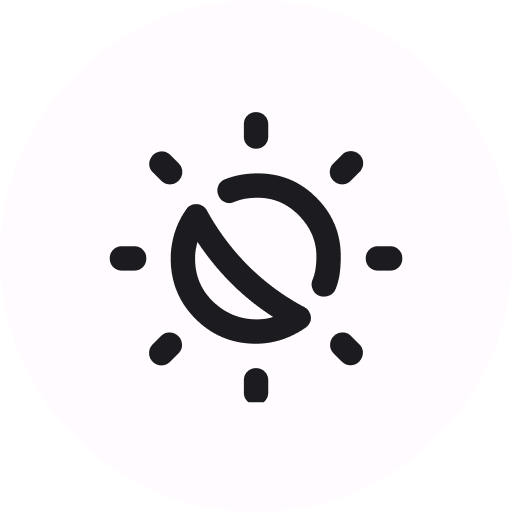
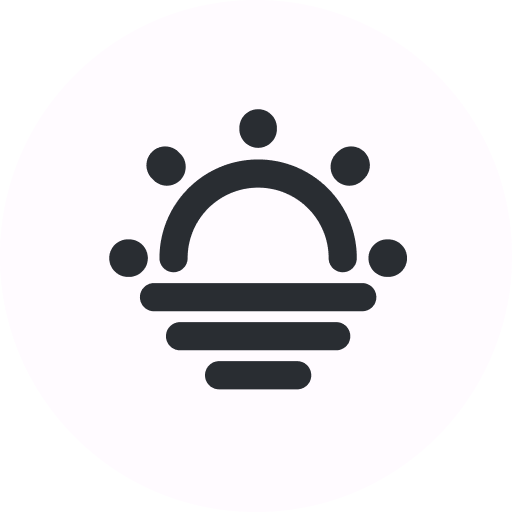
Merubah styling pada fitur sunrise dan sunset serta menambahkan jarak waktu sekarang ke objek tersebut

Changed region(s): [[0.2188, 0.1875, 0.8125, 0.8125]]

diff --git a/script/script.js b/script/script.js
@@ -487,12 +487,16 @@ function printData(response) {
             }`
         );
 
+        const timeToSunrise =
+            new Date().getHours() -
+            new Date(Number(response.sys.sunrise + "000")).getHours();
+        const timeToSunset =
+            new Date().getHours() -
+            new Date(Number(response.sys.sunset + "000")).getHours();
+
         createPGap.textContent =
-            i === 1
-                ? new Date().getHours() -
-                  new Date(Number(response.sys.sunrise + "000")).getHours()
-                : new Date().getHours() -
-                  new Date(Number(response.sys.sunrise + "000")).getHours();
+            (i === 1 ? timeToSunrise : timeToSunset) +
+            (timeToSunrise < 0 || timeToSunset < 0 ? "h To Go" : "h Ago");
 
         createDivGap.className = "interval";
         createDivGap.appendChild(createPGap);

diff --git a/style.css b/style.css
@@ -508,6 +508,25 @@ main .details-circum .card .interval p {
     /* 145.455% */
     letter-spacing: 0.5px;
 }
+main .sun-condition .card .interval {
+    display: flex;
+    flex-direction: row;
+    align-self: flex-end;
+    padding: 0px 10px 10px 0;
+    width: 40px;
+    box-sizing: border-box;
+}
+
+main .sun-condition .card .interval p {
+    color: #000;
+    font-family: var(--fontChild);
+    font-size: 12px;
+    font-style: normal;
+    font-weight: 500;
+    line-height: 16px;
+    /* 145.455% */
+    letter-spacing: 0.5px;
+}
 
 
 /* Extra small devices (phones, 600px and down) */
@@ -518,6 +537,9 @@ main .details-circum .card .interval p {
     }
 
     main .details-circum .card .interval {
+        display: none;
+    }
+    main .sun-condition .card .interval {
         display: none;
     }
 
